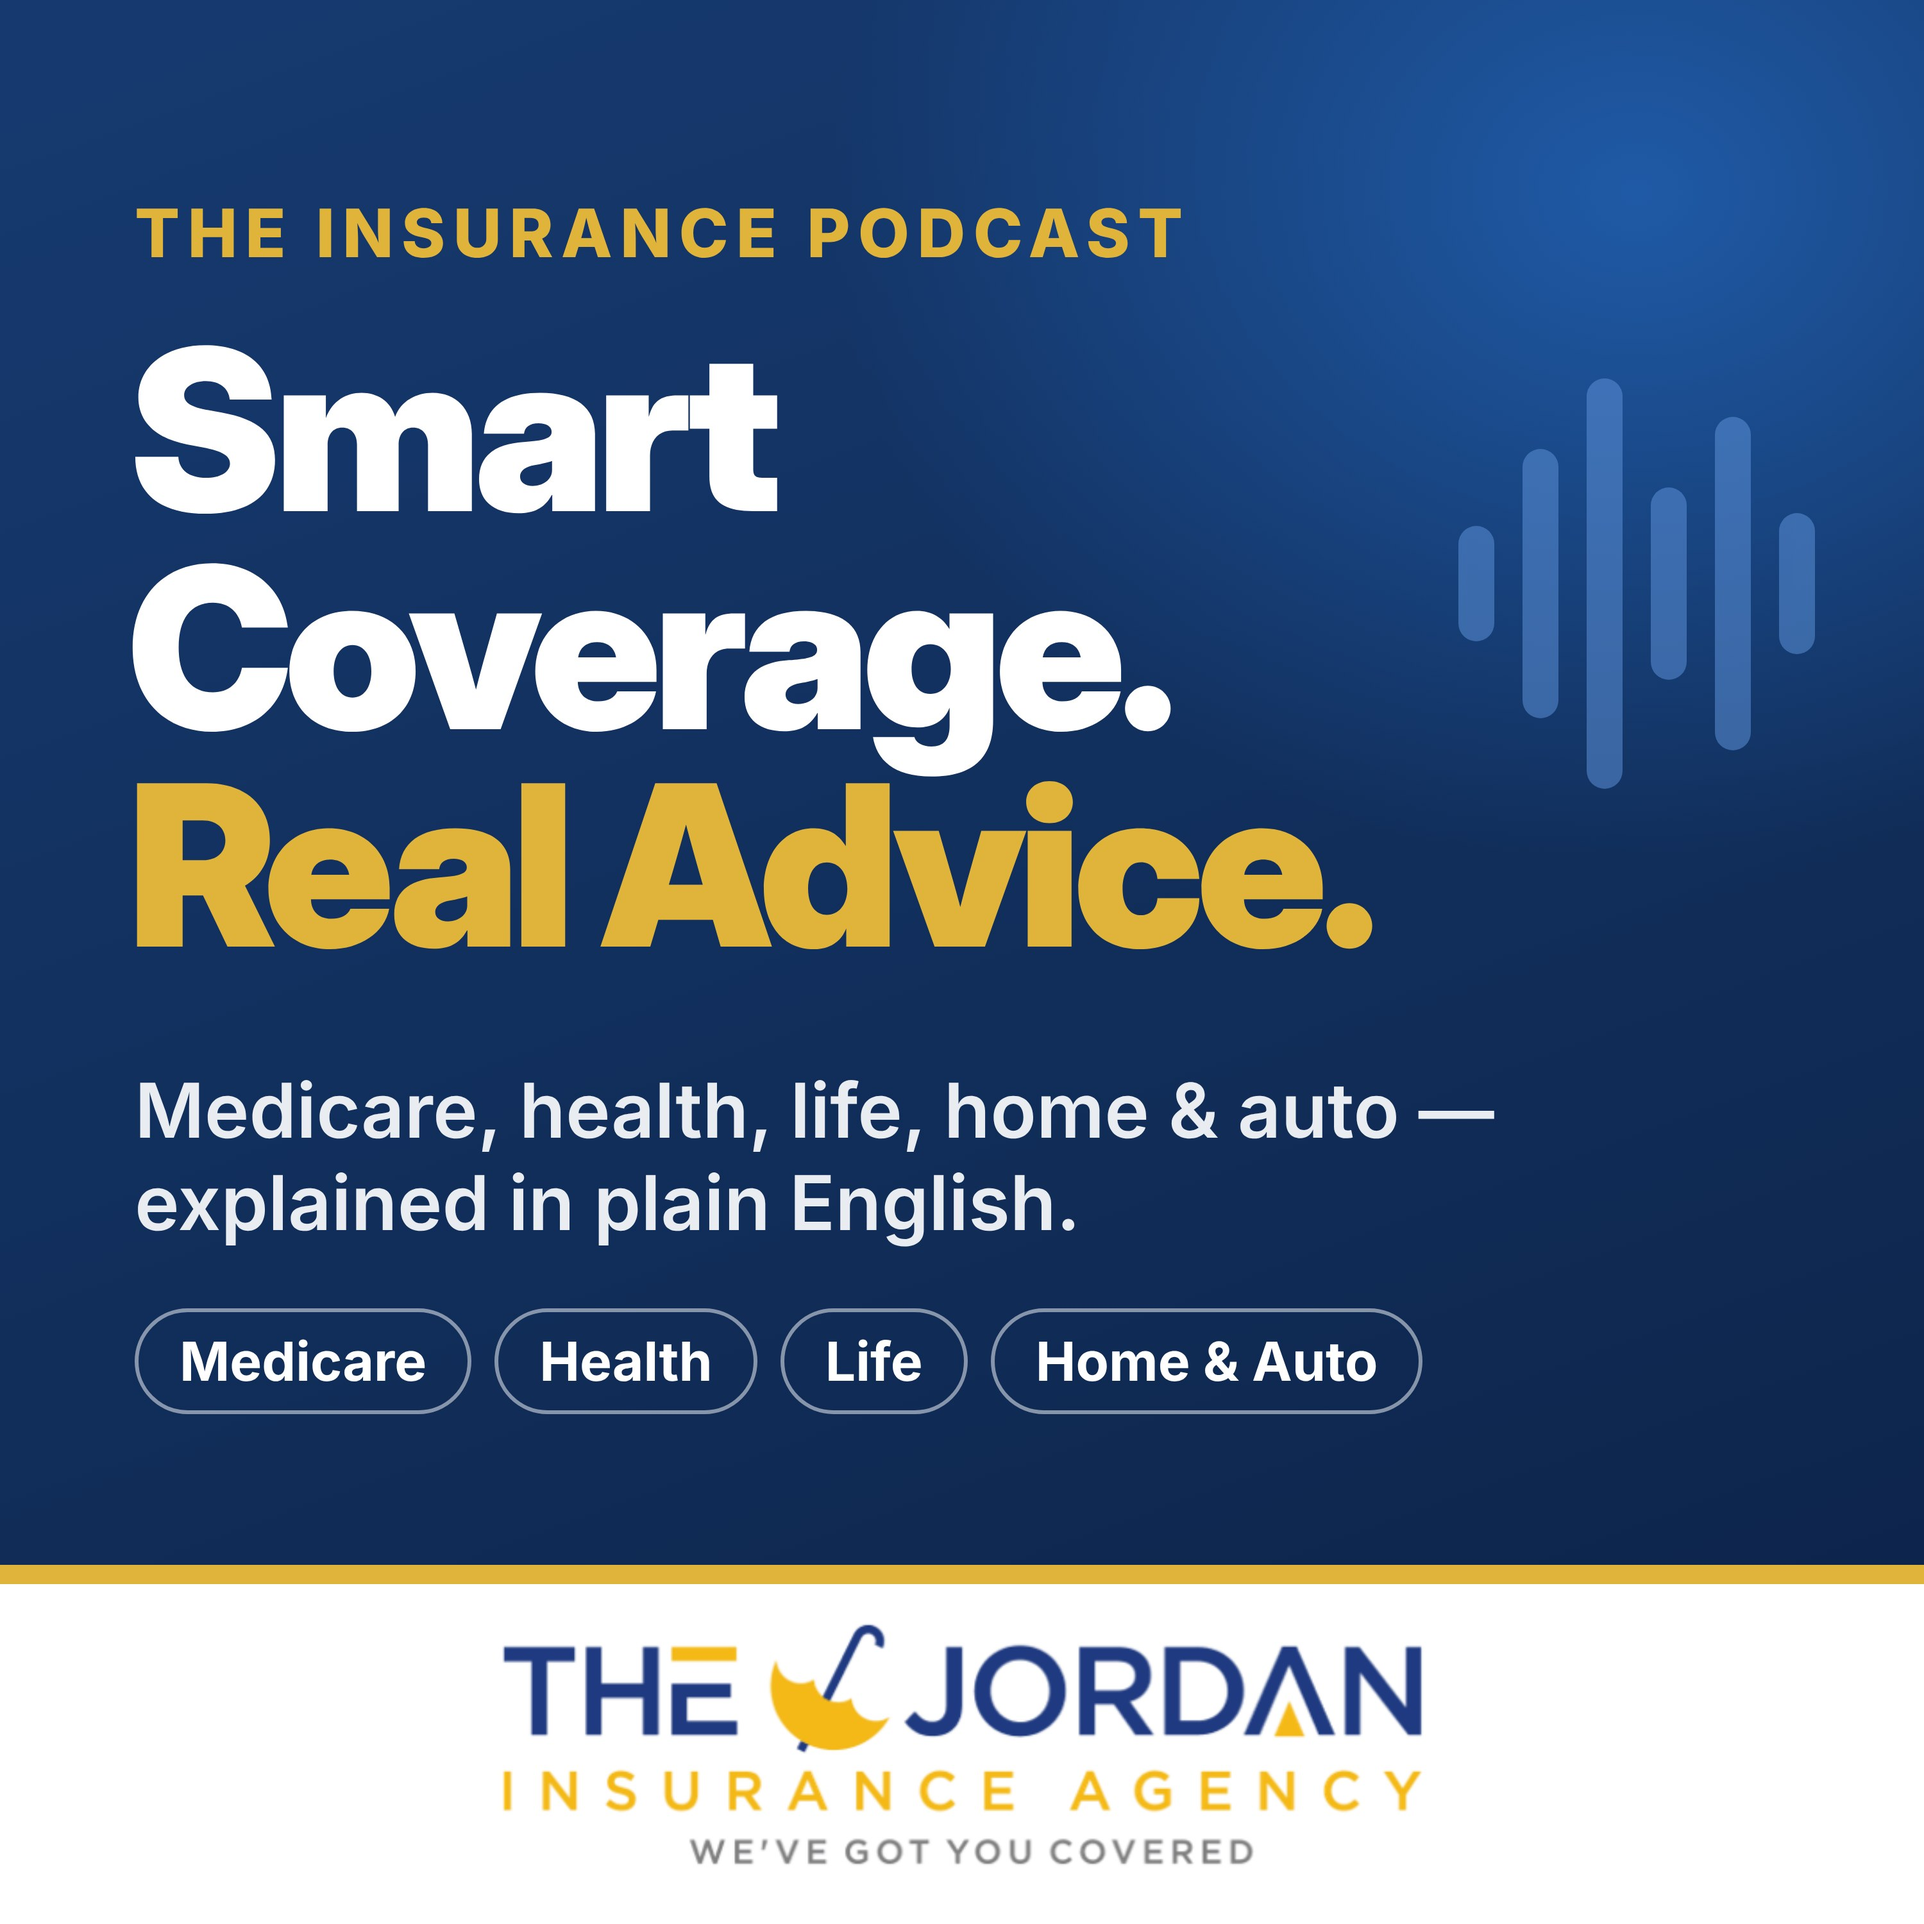
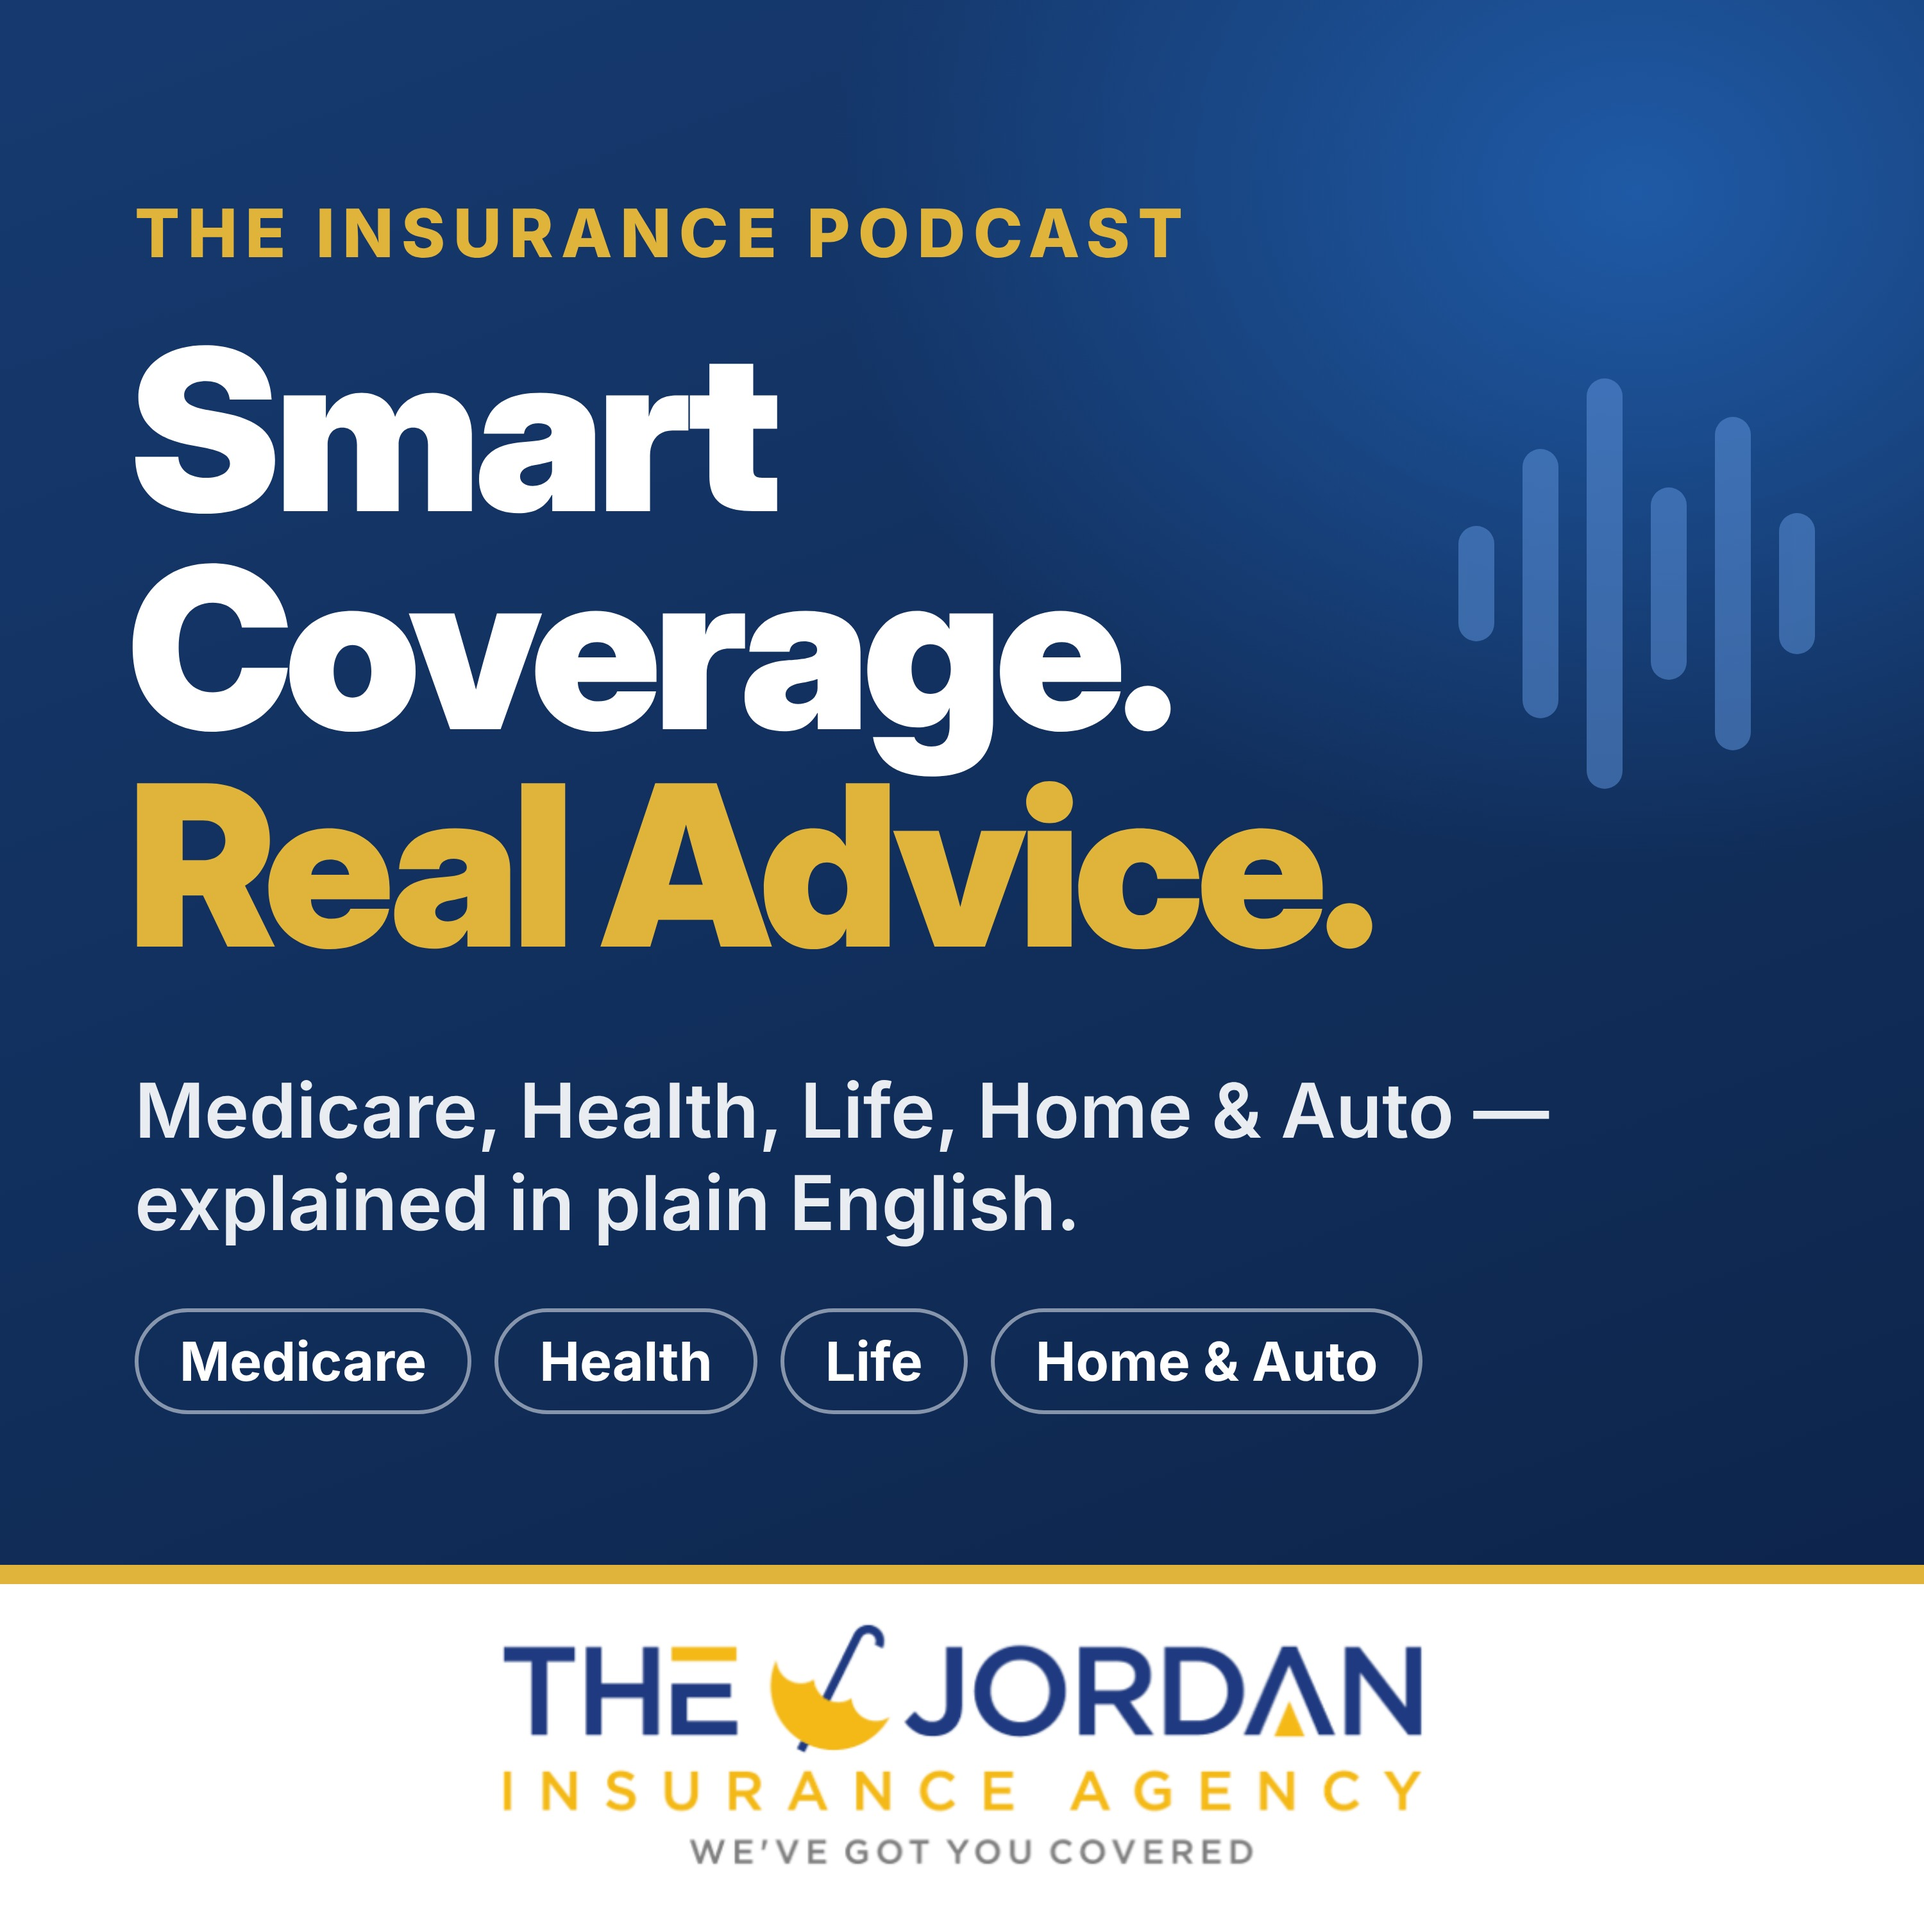
Podcast cover: capitalize Health, Life, Home & Auto like Medicare
Claude-Session: https://claude.ai/code/session_013V4QW24snhwLaEpdqEFU45

Changed region(s): [[0.279, 0.558, 0.806, 0.62]]

diff --git a/assets/src/the-jordan-insurance-agency-cover.html b/assets/src/the-jordan-insurance-agency-cover.html
@@ -26,7 +26,7 @@
   <div class="wave"><i style="height:180px"></i><i style="height:420px"></i><i style="height:640px"></i><i style="height:300px"></i><i style="height:520px"></i><i style="height:220px"></i></div>
   <div class="kicker">The Insurance Podcast</div>
   <div class="title">Smart<br>Coverage.<br><span class="gold">Real Advice.</span></div>
-  <div class="sub">Medicare, health, life, home &amp; auto — explained in plain English.</div>
+  <div class="sub">Medicare, Health, Life, Home &amp; Auto — explained in plain English.</div>
   <div class="topics"><span>Medicare</span><span>Health</span><span>Life</span><span>Home &amp; Auto</span></div>
   <div class="panel"><img src="the-jordan-insurance-agency-logo-cropped.png" alt="The Jordan Insurance Agency"></div>
 </div></body></html>

diff --git a/brands/the-jordan-insurance-agency.md b/brands/the-jordan-insurance-agency.md
@@ -27,6 +27,7 @@
 - lanes: Medicare · Health · Life · Home & Auto · Retirement
 - cta (spoken): "For a personalized look at your situation, book a free thirty-minute chat with Billy and his team at thejordaninsuranceagency.com/podcast." (Short, speakable URL on air. Billy, Oct 11.)
 - team_rule: ALWAYS "Billy and his team" whenever an episode, description or page mentions booking, a chat, a call, a review or any follow-up. Never promise an appointment with Billy alone, because it may be with Billy or a licensed member of his team. (Billy, Oct 11.) The Episode Factory prompt and its Compliance and Brand Gate enforce this.
+- service_names_rule: on covers, thumbnails, taglines and topic tags, capitalize every line of business the same way Medicare is: "Medicare, Health, Life, Home & Auto". Never capitalize Medicare alone while leaving the others lowercase. (Billy, Oct 12.)
 - description_booking_link: https://thejordaninsuranceagency.com/podcast#book. Show notes send people to the /podcast page, which has the team calendar embedded (same place the audio sends them, and it keeps traffic on our site). Billy, Oct 12.
 - booking_url (written): https://cal.com/team/agency-producer/t-agency, the same team calendar the home page uses; any element with class `rev-cta-btn` opens it as a pop-up via the site-wide code. Meeting length: 30 minutes (used in every description, episode page and the /podcast page button. Billy, Oct 11.)
 - credentials_line: Billy Jordan is a licensed insurance agent (NPN 8699876) with The Jordan Insurance Agency, with offices in Charlotte, NC and Nashville, TN. (NPN lives here in writing, not on air — Billy, Oct 10.)
